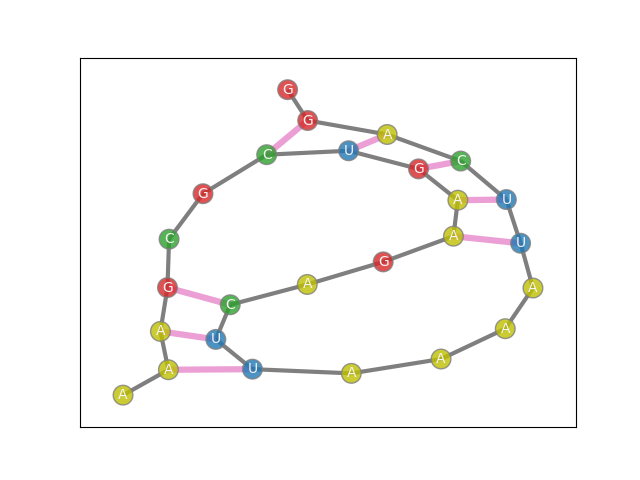
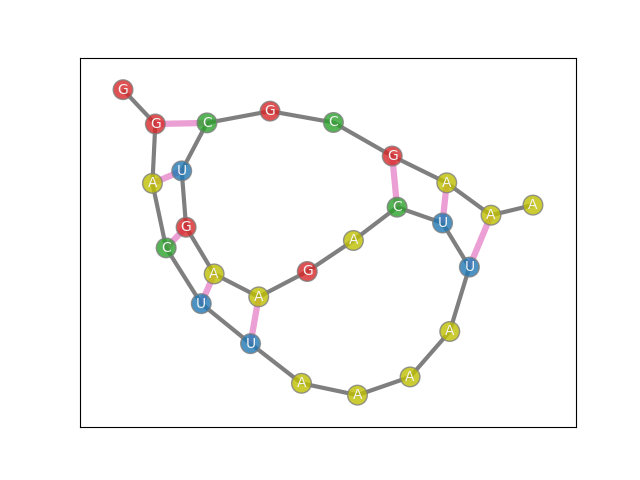
reduction method and make plot fixed

Changed region(s): [[0.1562, 0.1562, 0.875, 0.8438], [0.1562, 0.1562, 0.2188, 0.2188]]

diff --git a/RNA_folding.py b/RNA_folding.py
@@ -41,7 +41,7 @@ Possible reduction strategies for RNA folding:
 5. Merge maximal contiguous stems to a single super node, effectively reducing the problem size.
 """
 
-def merge_idle_sequence(bond_matrix, rna_sequence, min_len=10):
+def merge_idle_sequence(bond_matrix, rna_sequence, min_len=5):
     """ Merges all idle sequences of consecutive nucleotides of the same type longer than min_len to super nodes.
     
     Args:
@@ -151,7 +151,7 @@ def merge_idle_sequence(bond_matrix, rna_sequence, min_len=10):
     
     return reduced_matrix, position_mapping, reverse_mapping, modified_sequence
 
-def merge_maximal(bond_matrix, stem_dict, target_stem=None):
+def merge_maximal(bond_matrix, stem_dict, target_stem=None, rna_sequence=None):
     """ Merges a single maximal stem to a super node, effectively reducing the problem size.
     
     Args:
@@ -163,10 +163,11 @@ def merge_maximal(bond_matrix, stem_dict, target_stem=None):
             Specific maximal stem to collapse. If None, uses the first maximal stem.
             
     Returns:
-        tuple: (reduced_matrix, position_mapping, reverse_mapping)
+        tuple: (reduced_matrix, position_mapping, reverse_mapping, modified_sequence)
             - reduced_matrix: New matrix with the target stem as a super-node
             - position_mapping: Maps original positions to new positions
             - reverse_mapping: Maps new positions back to original positions
+            - modified_sequence: RNA sequence with merged stem marked differently
     """
     
     n = bond_matrix.shape[0]
@@ -254,10 +255,23 @@ def merge_maximal(bond_matrix, stem_dict, target_stem=None):
     # Add the bond between the super-nodes
     reduced_matrix[min(first_super_node, second_super_node), max(first_super_node, second_super_node)] = stem_bond_strength
     
-    return reduced_matrix, position_mapping, reverse_mapping
-
-
-
+    # Create modified sequence where merged stem positions are marked differently
+    if rna_sequence is None:
+        # If no sequence provided, return None for modified_sequence
+        modified_sequence = None
+    else:
+        # Create modified sequence where merged stem positions are marked with 'X'
+        modified_sequence = list(rna_sequence)
+        
+        # Mark all positions in the target stem with 'X'
+        for i in range(target_stem[0], target_stem[1] + 1):  # First side
+            modified_sequence[i] = 'x'
+        for i in range(target_stem[2], target_stem[3] + 1):  # Second side
+            modified_sequence[i] = 'x'
+        
+        modified_sequence = ''.join(modified_sequence)
+    
+    return reduced_matrix, position_mapping, reverse_mapping, modified_sequence
 
 def text_to_matrix(file_name, min_loop):
     """ Reads properly formatted RNA text file and returns a matrix of possible hydrogen bonding pairs.
@@ -297,7 +311,6 @@ def text_to_matrix(file_name, min_loop):
                 bond_matrix[min(bond), max(bond)] = 1
 
     return bond_matrix
-
 
 def make_stem_dict(bond_matrix, min_stem, min_loop):
     """ Takes a matrix of potential hydrogen binding pairs and returns a dictionary of possible stems.
@@ -344,6 +357,66 @@ def make_stem_dict(bond_matrix, min_stem, min_loop):
 
     return stem_dict
 
+def apply_reduction_method(bond_matrix, stem_dict, rna_sequence, method='idle_sequence', **kwargs):
+    """ Applies the specified reduction method to the RNA folding problem.
+    
+    Args:
+        bond_matrix (:class: `numpy.ndarray`):
+            Original bond matrix.
+        stem_dict (dict):
+            Dictionary with maximal stems as keys.
+        rna_sequence (str):
+            The RNA sequence string.
+        method (str):
+            Reduction method to use. Options:
+            - 'idle_sequence': Merge consecutive same-type nucleotides
+            - 'maximal_stem': Merge the longest maximal stem
+        **kwargs:
+            Additional arguments for specific methods:
+            - For 'idle_sequence': min_len (default=10)
+            - For 'maximal_stem': target_stem (default=None)
+            
+    Returns:
+        tuple: (reduced_matrix, position_mapping, reverse_mapping, modified_sequence)
+            - reduced_matrix: New matrix after reduction
+            - position_mapping: Maps original positions to new positions
+            - reverse_mapping: Maps new positions back to original positions
+            - modified_sequence: RNA sequence with merged nodes marked
+    """
+    
+    if method == 'idle_sequence':
+        min_len = kwargs.get('min_len', 5)
+        return merge_idle_sequence(bond_matrix, rna_sequence, min_len)
+    
+    elif method == 'maximal_stem':
+        target_stem = kwargs.get('target_stem', None)
+        return merge_maximal(bond_matrix, stem_dict, target_stem, rna_sequence)
+    
+    else:
+        raise ValueError(f"Unknown reduction method: {method}. Available methods: 'idle_sequence', 'maximal_stem'")
+
+def create_modified_sequence_file(modified_sequence, base_filename='modified_sequence'):
+    """ Creates a temporary file with the modified sequence for plotting purposes.
+    
+    Args:
+        modified_sequence (str):
+            The modified RNA sequence string.
+        base_filename (str):
+            Base name for the temporary file.
+            
+    Returns:
+        str: Path to the created temporary file.
+    """
+    import tempfile
+    import os
+    
+    # Create temporary file with modified sequence
+    with tempfile.NamedTemporaryFile(mode='w', suffix='.txt', delete=False, prefix=base_filename + '_') as temp_file:
+        # Write the modified sequence in the same format as the original file
+        temp_file.write(f"0 {modified_sequence}\n")
+        temp_file_path = temp_file.name
+    
+    return temp_file_path
 
 def convert_reduced_solution_to_original(reverse_mapping, reduced_solution_stems):
     """ Converts solution stems from reduced matrix back to original matrix using reverse mapping.
@@ -415,7 +488,6 @@ def check_overlap(stem1, stem2):
 
     return False
 
-
 def pseudoknot_terms(stem_dict, min_stem=3, c=0.3):
     """ Creates a dictionary with all possible pseudoknots as keys and appropriate penalties as values.
 
@@ -444,13 +516,12 @@ def pseudoknot_terms(stem_dict, min_stem=3, c=0.3):
                             if substem1[1] < substem2[0] and substem2[1] < substem1[2] and substem1[3] < substem2[2]})
     return pseudos
 
-
-def make_plot(file, stems, fig_name='RNA_plot'):
+def make_plot(rna_sequence, stems, fig_name='RNA_plot'):
     """ Produces graph plot and saves as .png file.
 
     Args:
-        file (str):
-            Path to text file name containing RNA information.
+        rna_sequence (str):
+            RNA sequence string.
         stems (list):
             List of stems in solution, encoded as 4-tuples.
         fig_name (str):
@@ -461,9 +532,8 @@ def make_plot(file, stems, fig_name='RNA_plot'):
     plt.clf()
     plt.close('all')
 
-    # Read RNA file for length and labels.
-    with open(file) as f:
-        rna = "".join(("".join(line.split()[1:]) for line in f.readlines())).lower()
+    # Use the provided RNA sequence directly
+    rna = rna_sequence.lower()
 
     # Create graph with edges from RNA sequence and stems. Nodes are temporarily labeled by integers.
     G = nx.Graph()
@@ -471,21 +541,29 @@ def make_plot(file, stems, fig_name='RNA_plot'):
     stem_edges = [(stem[0] + i, stem[3] - i) for stem in stems for i in range(stem[1] - stem[0] + 1)]
     G.add_edges_from(rna_edges + stem_edges)
 
-    # Assign each nucleotide to a color.
+    # Assign each nucleotide to a color and size.
     color_map = []
+    node_sizes = []
     for node in rna:
-        if node == 'g':
+        if node == 'x':  # Merged node
+            color_map.append('purple')  # Distinct color for merged nodes
+            node_sizes.append(400)      # Larger size for merged nodes
+        elif node == 'g':
             color_map.append('tab:red')
+            node_sizes.append(200)
         elif node == 'c':
             color_map.append('tab:green')
+            node_sizes.append(200)
         elif node == 'a':
             color_map.append('y')
+            node_sizes.append(200)
         else:
             color_map.append('tab:blue')
+            node_sizes.append(200)
 
-    options = {"edgecolors": "tab:gray", "node_size": 200, "alpha": 0.8}
-    pos = nx.spring_layout(G, iterations=5000)  # max(3000, 125 * len(rna)))
-    nx.draw_networkx_nodes(G, pos, node_color=color_map, **options)
+    options = {"edgecolors": "tab:gray", "alpha": 0.8}
+    pos = nx.spring_layout(G, iterations=5000, seed=42)  # Fixed seed for reproducible layout
+    nx.draw_networkx_nodes(G, pos, node_color=color_map, node_size=node_sizes, **options)
 
     labels = {i: rna[i].upper() for i in range(len(rna))}
     nx.draw_networkx_labels(G, pos, labels, font_size=10, font_color="whitesmoke")
@@ -496,7 +574,6 @@ def make_plot(file, stems, fig_name='RNA_plot'):
     plt.savefig(fig_name + '.png')
 
     print('\nPlot of solution saved as {}.png'.format(fig_name))
-
 
 def build_cqm(stem_dict, min_stem, c):
     """ Creates a constrained quadratic model to optimize most likely stems from a dictionary of possible stems.
@@ -542,7 +619,6 @@ def build_cqm(stem_dict, min_stem, c):
                     cqm.add_constraint(dimod.quicksum([dimod.Binary(stem) for stem in stem_pair]) <= 1)
 
     return cqm
-
 
 def process_cqm_solution(sample_set, verbose=True):
     """ Processes samples from solution and prints relevant information.
@@ -678,6 +754,9 @@ def main(path, verbose, min_stem, min_loop, c):
     Returns:
         None: None
     """
+    # Read the RNA sequence for idle sequence detection
+    with open(path) as f:
+        rna_sequence = "".join(("".join(line.split()[1:]) for line in f.readlines())).lower()
     
     matrix = text_to_matrix(path, min_loop)
     matrix_copy = np.copy(matrix)
@@ -685,43 +764,40 @@ def main(path, verbose, min_stem, min_loop, c):
 
     print_matrix_and_stem_dict(matrix, stem_dict)
     
-    # Test the merge_maximal function
-    print("\n=== Testing merge_maximal function ===")
+    # Test the reduction methods using the helper function
+    print("\n=== Testing reduction methods ===")
     
-    """
-    # Get the first maximal stem to collapse
-    maximal_stems = list(stem_dict.keys())
-        
-    reduced_matrix, pos_mapping, reverse_mapping = merge_maximal(matrix, stem_dict, None)
-    print_reduced_matrix_info(reduced_matrix, pos_mapping, reverse_mapping, matrix.shape[0])
-    """
-
-    # Test the merge_idle_sequence function
-    print("\n=== Testing merge_idle_sequence function ===")
-    # Read the RNA sequence for idle sequence detection
-    with open(path) as f:
-        rna_sequence = "".join(("".join(line.split()[1:]) for line in f.readlines())).lower()
-    idle_reduced_matrix, idle_pos_mapping, idle_reverse_mapping, modified_sequence = merge_idle_sequence(matrix, rna_sequence, min_len=4)
-    print_reduced_matrix_info(idle_reduced_matrix, idle_pos_mapping, idle_reverse_mapping, matrix.shape[0], modified_sequence)
+    # Test idle sequence reduction
+    reduced_matrix, pos_mapping, reverse_mapping, modified_sequence = apply_reduction_method(
+        matrix, stem_dict, rna_sequence, method='idle_sequence', min_len=4
+    )
+    print_reduced_matrix_info(reduced_matrix, pos_mapping, reverse_mapping, matrix.shape[0], modified_sequence)
+    
+    reduced_matrix_max, pos_mapping_max, reverse_mapping_max, modified_sequence_max = apply_reduction_method(
+        matrix, stem_dict, rna_sequence, method='maximal_stem'
+    )
+    print_reduced_matrix_info(reduced_matrix_max, pos_mapping_max, reverse_mapping_max, matrix.shape[0], modified_sequence_max)
     
 
     # Test the conversion function with example solution stems
     print("\n=== Testing conversion function ===")
+
+    solution_stems = [(1, 3, 13, 15), (6, 10, 20, 24)]
+    print(f"Original solution stems: {solution_stems}")
+
     # Example solution stems from the reduced matrix
     reduced_solution_stems = [(1, 3, 13, 15), (6, 10, 17, 21)]
     print(f"Reduced solution stems: {reduced_solution_stems}")
     
     # Convert back to original coordinates
-    converted_solution_stems = convert_reduced_solution_to_original(idle_reverse_mapping, reduced_solution_stems)
+    converted_solution_stems = convert_reduced_solution_to_original(reverse_mapping, reduced_solution_stems)
     print(f"Converted solution stems: {converted_solution_stems}")
 
-    solution_stems = [(1, 3, 13, 15), (6, 10, 20, 24)]
-    print(f"Original solution stems: {solution_stems}")
 
     # Create plots for both original and reduced solutions
-    make_plot(path, reduced_solution_stems, 'reduced_solution')
-    make_plot(path, converted_solution_stems, 'converted_solution')
-    make_plot(path, solution_stems, 'original_solution')
+    make_plot(rna_sequence, solution_stems, 'original_solution')
+    make_plot(rna_sequence, converted_solution_stems, 'converted_solution')
+    make_plot(modified_sequence, reduced_solution_stems, 'reduced_solution')
 
 
     """
